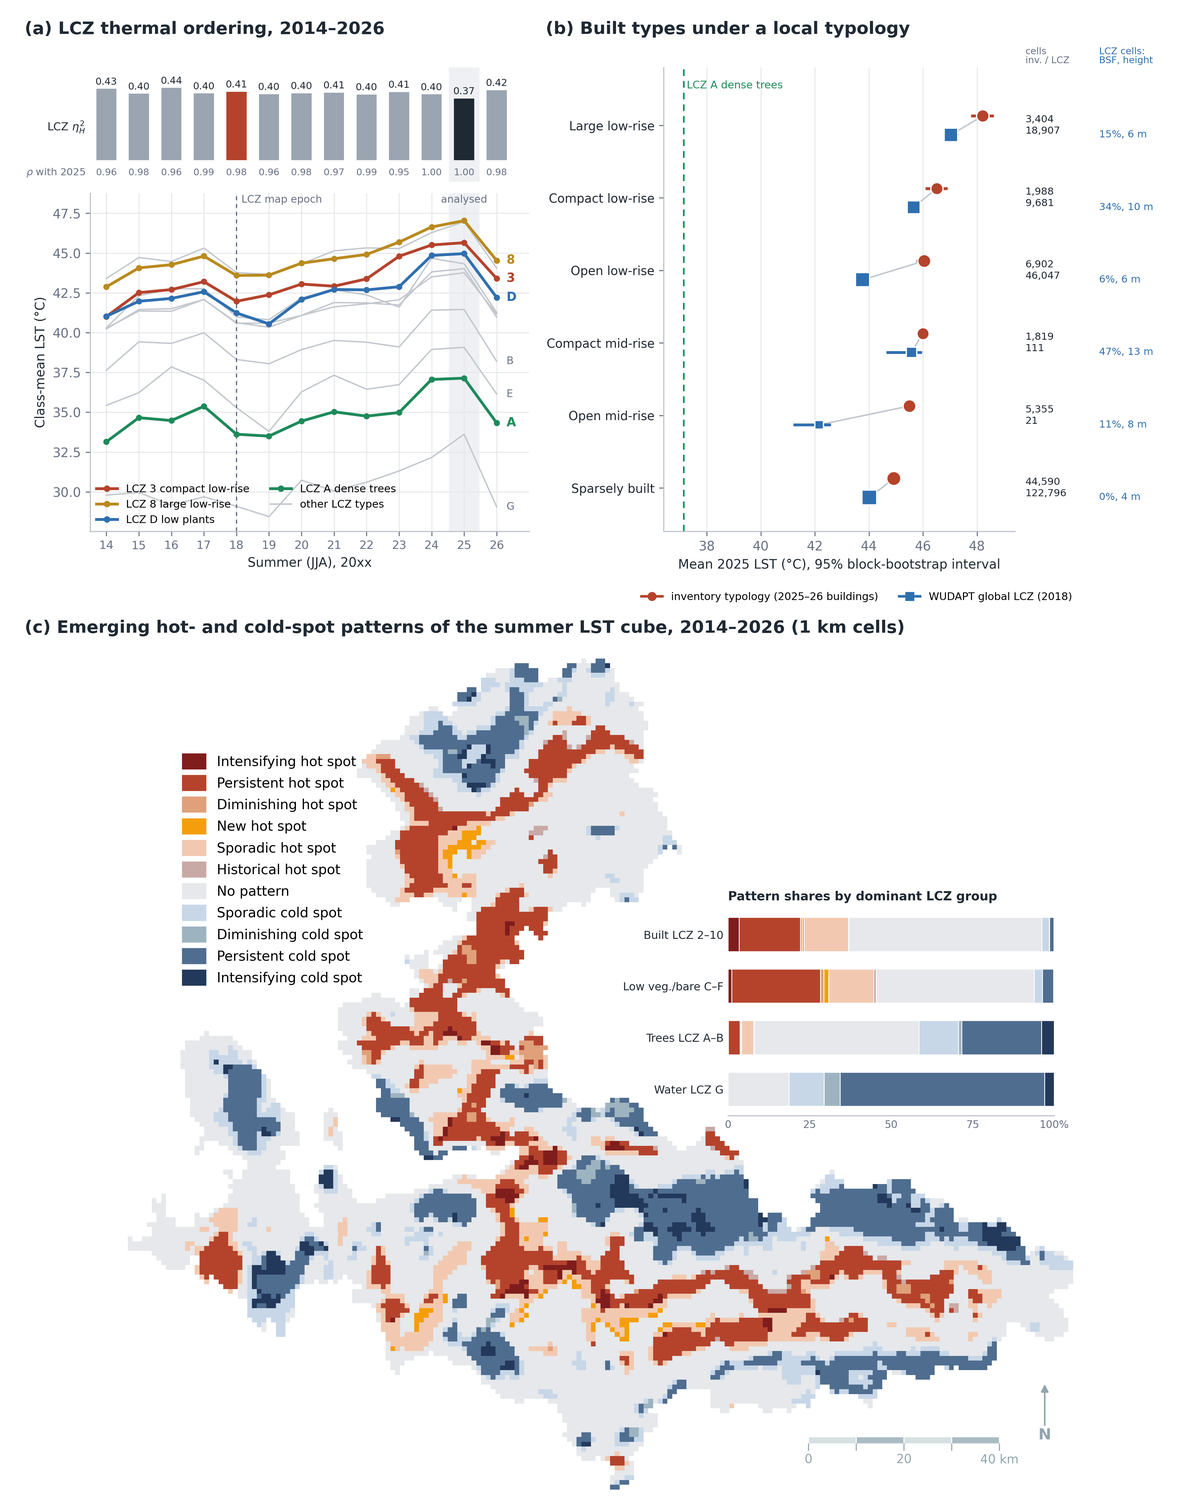
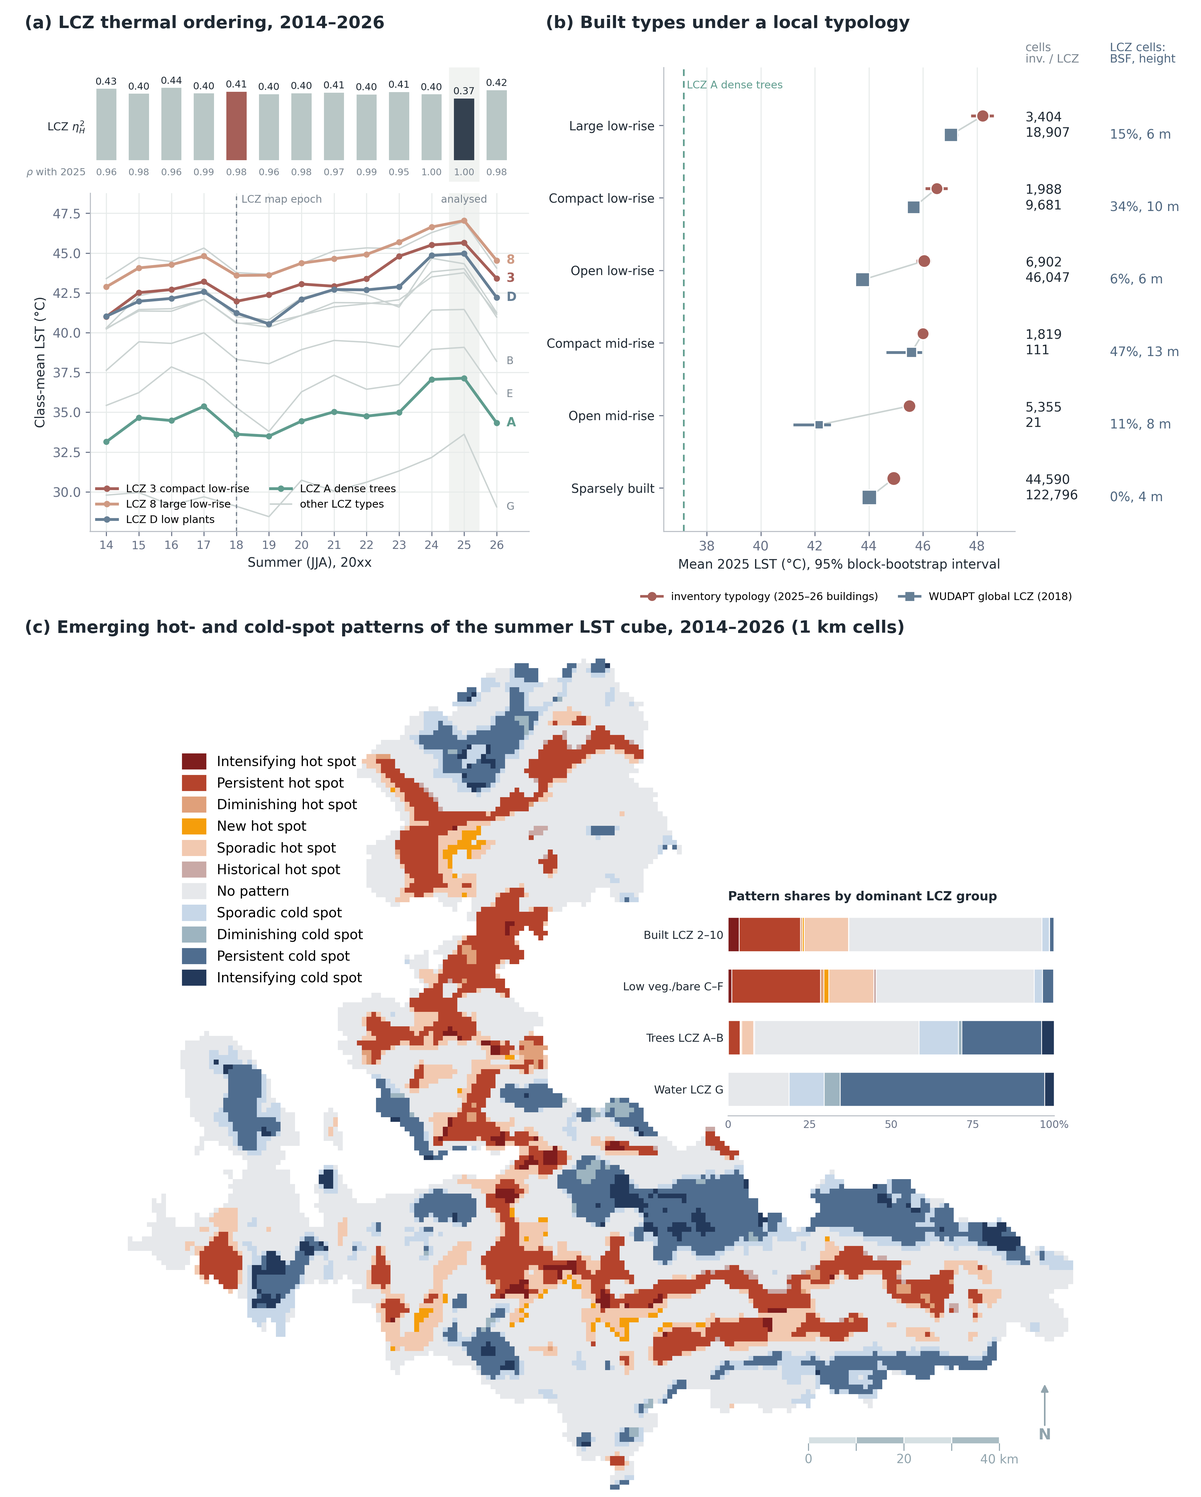
Figure 5 in the study palette; code comments describe the final analysis

diff --git a/r1/analysis/fig_r1_lcz_consistency.py b/r1/analysis/fig_r1_lcz_consistency.py
@@ -17,10 +17,12 @@ from matplotlib.colors import ListedColormap, BoundaryNorm
 sys.path.insert(0, str(Path(__file__).parent))
 from common import *  # noqa
 
-INK, MUTED, GRID = "#1F2933", "#667085", "#E6E8EB"
-C1, C2, C3, C4 = "#B5432C", "#2F6FB0", "#B98A1E", "#1E8A5A"
+INK, MUTED, GRID = "#1F2933", "#7A8590", "#E7EBEA"
+# study palette in (a) and (b); (c) keeps its own pattern colours
+C1, C2, C3, C4 = "#A65F58", "#667F95", "#CF9A83", "#5F9C8E"
+STEEL, LINE, HOLD = "#4F6780", "#CBD3D2", "#344150"
 plt.rcParams.update({"font.family": "DejaVu Sans", "font.size": 10, "axes.edgecolor": "#B9BEC5", "axes.labelcolor": INK,
-                     "xtick.color": MUTED, "ytick.color": MUTED, "axes.titlecolor": INK})
+                     "xtick.color": "#667085", "ytick.color": "#667085", "axes.titlecolor": INK})
 
 M = pd.read_csv(TABLES / "lcz_mean_lst_by_year.csv", index_col=0)
 M.columns = M.columns.astype(int)
@@ -50,10 +52,10 @@ axs, ax = fig.add_subplot(sub[0]), fig.add_subplot(sub[1])
 years = list(M.columns)
 for x0 in (2025,):
     for a in (axs, ax):
-        a.axvspan(x0 - 0.45, x0 + 0.45, color="#EEF0F3", zorder=0)
+        a.axvspan(x0 - 0.45, x0 + 0.45, color="#F1F3F1", zorder=0)
 hi = {3: ("LCZ 3 compact low-rise", C1), 8: ("LCZ 8 large low-rise", C3), 14: ("LCZ D low plants", C2), 11: ("LCZ A dense trees", C4)}
 for k in [6, 9, 12, 13, 15, 16, 17]:
-    ax.plot(years, M.loc[k], color="#C3C8CF", lw=1.1, zorder=1)
+    ax.plot(years, M.loc[k], color=LINE, lw=1.1, zorder=1)
     if k in (12, 15, 17):
         ax.text(years[-1] + 0.3, M.loc[k, years[-1]], LCZ_LABEL[k], color=MUTED, fontsize=8, va="center")
 for k, (lab, col) in hi.items():
@@ -65,13 +67,13 @@ ax.set_xlabel("Summer (JJA), 20xx"); ax.set_ylabel("Class-mean LST (\u00b0C)")
 ax.set_xlim(2013.5, 2027.0)
 clean(ax)
 h = [plt.Line2D([], [], color=c, lw=2.2, marker="o", ms=4, label=l) for l, c in hi.values()]
-h.append(plt.Line2D([], [], color="#C3C8CF", lw=1.2, label="other LCZ types"))
+h.append(plt.Line2D([], [], color=LINE, lw=1.2, label="other LCZ types"))
 ax.legend(handles=h, loc="lower left", fontsize=8.2, frameon=False, ncol=2, borderaxespad=0.2)
 yl = ax.get_ylim(); ax.set_ylim(yl[0], yl[1] + 0.8)
 ax.text(2018.15, yl[1] + 0.7, "LCZ map epoch", color=MUTED, fontsize=8, va="top")
 ax.text(2025, yl[1] + 0.7, "analysed", color=MUTED, fontsize=8, va="top", ha="center")
 # strip: eta^2 bars, rho as text
-cols = [C1 if y == 2018 else (INK if y == 2025 else "#9AA5B1") for y in E.year]
+cols = [C1 if y == 2018 else (HOLD if y == 2025 else "#B9C7C6") for y in E.year]
 axs.bar(E.year, E.eta2, color=cols, width=0.62, zorder=2)
 for y, e, r in zip(E.year, E.eta2, E.rho_2025_types):
     axs.text(y, e + 0.012, f"{e:.2f}", ha="center", va="bottom", fontsize=7.6, color=INK)
@@ -102,18 +104,18 @@ def msize(n):
 for i, k in enumerate(order):
     y = len(order) - 1 - i
     r, u = T3.loc[k], U.loc[k]
-    ax.plot([r["mean"], u["mean"]], [y + 0.13, y - 0.13], color="#C3C8CF", lw=1.2, zorder=1)
+    ax.plot([r["mean"], u["mean"]], [y + 0.13, y - 0.13], color=LINE, lw=1.2, zorder=1)
     ax.plot([r.ci_lo, r.ci_hi], [y + 0.13] * 2, color=C1, lw=2.2, solid_capstyle="butt", zorder=2)
     ax.scatter([r["mean"]], [y + 0.13], s=msize(r.n), color=C1, edgecolor="white", lw=1.0, zorder=3)
     ax.plot([u.ci_lo, u.ci_hi], [y - 0.13] * 2, color=C2, lw=2.2, solid_capstyle="butt", zorder=2)
     ax.scatter([u["mean"]], [y - 0.13], s=msize(u.n), color=C2, marker="s", edgecolor="white", lw=1.0, zorder=3)
     # right-hand columns: cell counts and the inventory morphology of the WUDAPT class
     tr = ax.get_yaxis_transform()
-    ax.text(1.03, y, f"{int(r.n):,}\n{int(u.n):,}", transform=tr, ha="left", va="center", fontsize=7.8, color=INK, linespacing=1.25)
+    ax.text(1.03, y, f"{int(r.n):,}\n{int(u.n):,}", transform=tr, ha="left", va="center", fontsize=10, color=INK, linespacing=1.25)
     mo = T1.loc[k]
-    ax.text(1.24, y - 0.13, f"{100 * mo.bsf3_med:.0f}%, {mo.h3_med:.0f} m", transform=tr, ha="left", va="center", fontsize=7.8, color=C2)
-ax.text(1.03, 1.005, "cells\ninv. / LCZ", transform=ax.transAxes, ha="left", va="bottom", fontsize=7.4, color=MUTED, linespacing=1.0)
-ax.text(1.24, 1.005, "LCZ cells:\nBSF, height", transform=ax.transAxes, ha="left", va="bottom", fontsize=7.4, color=C2, linespacing=1.0)
+    ax.text(1.27, y - 0.13, f"{100 * mo.bsf3_med:.0f}%, {mo.h3_med:.0f} m", transform=tr, ha="left", va="center", fontsize=10, color=STEEL)
+ax.text(1.03, 1.005, "cells\ninv. / LCZ", transform=ax.transAxes, ha="left", va="bottom", fontsize=9, color=MUTED, linespacing=1.05)
+ax.text(1.27, 1.005, "LCZ cells:\nBSF, height", transform=ax.transAxes, ha="left", va="bottom", fontsize=9, color=STEEL, linespacing=1.05)
 ax.set_yticks(range(len(order))); ax.set_yticklabels([names[k] for k in order[::-1]], fontsize=9.5, color=INK)
 ax.set_ylim(-0.6, len(order) - 0.2)
 ax.set_xlim(36.4, 49.4)

diff --git a/r1/analysis/r2_10_table_s13.py b/r1/analysis/r2_10_table_s13.py
@@ -1,5 +1,5 @@
-"""Supplementary Table S13: assembly of the province-wide grid (v2): source of each layer and its agreement with the
-earlier processing of the data stack (same-source layers on the cells the earlier grid covered; earlier 2025 export)."""
+"""Supplementary Table S13: assembly of the province-wide grid: source of each layer and its agreement check
+(same-source layers against the aligned data stack on shared cells; 2025 layers against the alternative layers)."""
 import sys
 from pathlib import Path
 import pandas as pd
@@ -20,27 +20,26 @@ NP = f"{len(load_grid(valid_only=False)):,}"
 rows = []
 for layer, name in [("lcz", "LCZ class"), ("lcz_probability", "LCZ probability"), ("corine_2018", "CORINE 2018"), ("glc_fcs_2022", "GLC\\_FCS30D 2022")]:
     cells = f"{int(_d.filled):,}" if layer.startswith("lcz") else NG  # 49 shoreline cells lie outside the LCZ product
-    rows.append(f"{name} & same Earth Engine asset & identical on {100 * get(layer, 'identical share').value:.1f}\\% of covered cells & {cells} \\\\")
-rows.append(f"SRTM elevation & same source, 100~m sample & $r={get('srtm_elevation_m', 'pearson r').value:.4f}$ & {NG} \\\\")
-rows.append(f"Slope, aspect (sine, cosine) & finite differences on the completed DEM & $r={get('srtm_slope_deg', 'pearson r').value:.3f}$, "
-            f"${get('srtm_aspect_sin', 'pearson r').value:.3f}$, ${get('srtm_aspect_cos', 'pearson r').value:.3f}$ & {NP} \\\\")
+    rows.append(f"{name} & same Earth Engine asset & identical to the stack on {100 * get(layer, 'identical share').value:.1f}\\% of shared cells & {cells} \\\\")
+rows.append(f"SRTM elevation & same source, 100~m sample & $r={get('srtm_elevation_m', 'pearson r').value:.4f}$ with the stack & {NG} \\\\")
+rows.append(f"Slope, aspect (sine, cosine) & finite differences on the extended DEM & -- & {NP} \\\\")
 for k, name in [("lst", "LST 2025"), ("albedo", "Albedo 2025"), ("ndvi", "NDVI 2025"), ("ndbi", "NDBI 2025"), ("evi", "EVI 2025")]:
-    rows.append(f"{name} & documented Landsat~8/9 composite & $r={V[f'prev_r_{k}']}$ with the earlier export & {NP} \\\\")
+    rows.append(f"{name} & documented Landsat~8/9 composite & $r={V[f'prev_r_{k}']}$ with the alternative layers & {NP} \\\\")
 rows.append(f"LST anomaly, UTFVI & derived from LST & -- & {NP} \\\\")
 s = r"""\begin{table}[H]
-\caption{Assembly of the province-wide grid: source of each layer and agreement with the earlier processing of the data stack, which did not cover \var{n_gapfilled} cells (\var{gapfill_share}\% of the province).}
+\caption{Assembly of the province-wide grid: source of each layer and agreement check.}
 \label{stab:gapfill}
 \scriptsize
 \setlength{\tabcolsep}{3pt}
 \begin{tabularx}{\textwidth}{p{2.6cm}p{4.4cm}Xr}
 \toprule
-\textbf{Layer} & \textbf{Source} & \textbf{Agreement with the earlier processing} & \textbf{Cells} \\
+\textbf{Layer} & \textbf{Source} & \textbf{Agreement check} & \textbf{Cells} \\
 \midrule
 """ + "\n".join(rows) + r"""
 \bottomrule
 \end{tabularx}
 \begin{tablenotes}
-\item Cells: for the same-source layers, the cells the earlier grid did not cover; for the derived and 2025 layers, all province cells. Agreement is computed on the cells both versions cover. Slope and aspect differ from the earlier derivation only at the \var{slope_changed_pct}\% of cells next to the province edge or the uncovered patches, where that derivation had filled missing neighbours with the province median elevation. The earlier 2025 export and the reasons it is not used are described in Supplementary Note~\ref{snote:grid}.
+\item Stack: the aligned data stack. Cells: for the same-source layers, the cells the stack does not cover; for the derived and 2025 layers, all province cells. Agreement is computed on the cells both sources cover. The alternative 2025 layers are described in Supplementary Note~\ref{snote:grid}.
 \end{tablenotes}
 \end{table}
 """

diff --git a/r1/analysis/r2_13_review_values.py b/r1/analysis/r2_13_review_values.py
@@ -1,4 +1,4 @@
-"""Values requested by the internal five-reviewer stress test (2026-10-28).
+"""Supplementary values quoted in the text and tables.
 
 - grid accounting: province cells, cells with an LCZ class, modelling cells (Table 4 vs Table 5 n)
 - MGWR sample share of the modelling grid
@@ -99,7 +99,7 @@ print(v2)
 v.update(v2)
 write_values("r2_13_review_values", v)
 
-# round-2 requests: separate child and elderly tests, unlisted residents, letter notation, joined-vs-model cells
+# separate child and elderly tests, unlisted residents, letter notation, joined-vs-model cells
 LETTER = {11: "A", 12: "B", 13: "C", 14: "D", 15: "E", 16: "F", 17: "G"}
 lc = lambda c: LETTER.get(int(c), str(int(c)))
 v["mw_ns_pair"] = "; ".join(f"LCZ {lc(a)} and {lc(b)}" for a, b in zip(ns.lcz_a, ns.lcz_b)) or "none"
@@ -124,7 +124,7 @@ v["n_joined_incomplete"] = int((inm & ~compl).sum())
 print({k: v[k] for k in ["mw_ns_pair", "bv_child_i", "bv_child_p", "bv_eld_i", "bv_eld_p", "rho_child_lst", "rho_eld_lst", "rho_child_eld", "pop_unlisted", "n_joined_incomplete"]})
 write_values("r2_13_review_values", v)
 
-# round-3 requests
+# further values
 from libpysal.weights import DistanceBand
 cent = np.column_stack([M2.geometry.centroid.x, M2.geometry.centroid.y])
 wd = DistanceBand(cent, threshold=5000, binary=True, silence_warnings=True); wd.transform = "r"
@@ -146,7 +146,7 @@ v["consensus_names"] = "; ".join(f"{_nm(n)} ({_nm(d)})" for n, d in zip(_c.mahal
 print({k: v[k] for k in ["bv_child_i_d5", "bv_child_p_d5", "bv_eld_i_d5", "bv_eld_p_d5", "lst_res_ranked", "lst_res_unranked", "n_res_unranked", "consensus_in_top80_noalb", "consensus_names"]})
 write_values("r2_13_review_values", v)
 
-# round-3 requests (2): residential-support group tests, FDR-controlled local counts, group-weighted exposure,
+# residential-support group tests, FDR-controlled local counts, group-weighted exposure,
 # built-area-weighted index sensitivity, units resting on few residential cells
 from statsmodels.stats.multitest import multipletests
 for col, nm in [("child_0_14_share", "child"), ("elderly_65_plus_share", "eld")]:

diff --git a/r1/analysis/r1_08_priority_alternatives.py b/r1/analysis/r1_08_priority_alternatives.py
@@ -1,9 +1,9 @@
-"""Mahalle priority index (R1-6, R2-5): revised morphology term, coverage, and dependence on construction.
+"""Mahalle priority index: revised morphology term, coverage, and dependence on construction.
 
 Revised baseline: M_m = mahalle mean of C_i = sum_k beta_k(i) x~_k(i) over every 100 m cell,
 with kernel-consistent MGWR coefficients (Eq. mahalle_morph). Weights 0.38/0.30/0.22/0.10.
 Alternatives compared with the baseline (Spearman rho; overlap of top 10 / 50 / 80):
-  r0_coef   coefficient-magnitude term of the submitted index (Eq. mahalle_morph_r0)
+  r0_coef   coefficient-magnitude term of the coefficient-only index (Eq. mahalle_morph_r0)
   equal     equal weights
   hev       equal hazard / sensitivity / exposure weights (T, M share the hazard third)
   entropy   entropy weights; pca  first-principal-component weights
@@ -39,7 +39,7 @@ def score(T, M, V, P, w=W0):
 pri = pd.read_csv(PRIORITY_CSV, encoding="utf-8-sig")
 pri = pri[pri.lst_mean.notna()].reset_index(drop=True)
 P_r0 = score(pri.lst_mean, pri.morph_pressure, pri.vulnerable_share, pri.pop_total)
-print("R0 reproduction max abs diff", np.nanmax(np.abs(P_r0 - pri.priority_score_0_100)))
+print("baseline reproduction max abs diff", np.nanmax(np.abs(P_r0 - pri.priority_score_0_100)))
 
 mah = gpd.read_file(MAHALLE).to_crs(CRS)
 g = load_grid()
@@ -91,7 +91,7 @@ pri["P0"] = P0
 base_rank = pd.Series(P0).rank(ascending=False, method="first").to_numpy()
 rho_C_T = stats.spearmanr(pri.C, pri.lst_mean).statistic
 rho_C_r0M = stats.spearmanr(pri.C, pri.morph_pressure).statistic
-print("rho(C, LST)", rho_C_T, "rho(C, R0 M)", rho_C_r0M)
+print("rho(C, LST)", rho_C_T, "rho(C, coefficient-only M)", rho_C_r0M)
 
 alts = {"r0_coef": P_r0}
 C4 = lambda M: np.column_stack([z(pri.lst_mean), z(M), z(pri.vulnerable_share), z(np.log1p(pri.pop_total))])

diff --git a/r1/analysis/r2_27_build_v2_grid.py b/r1/analysis/r2_27_build_v2_grid.py
@@ -1,7 +1,7 @@
-"""Analysis grid v2: the 2025 Landsat layers from the documented Earth Engine export (round-4 review decision).
+"""Analysis grid v2: the 2025 Landsat layers from the documented Earth Engine export.
 
-The analysed 2025 NDVI, NDBI and EVI of the earlier versions could not be regenerated from their stated recipe
-(r2_01-r2_04, r2_17, r2_25, r2_26). From this version on, LST, NDVI, NDBI, albedo and EVI of every province cell are
+The spectral indices of the alternative 2025 layers could not be traced to a recipe
+(r2_01-r2_04, r2_17, r2_25, r2_26). LST, NDVI, NDBI, albedo and EVI of every province cell are
 the documented June-August 2025 Landsat 8/9 Collection 2 Level-2 composite of r2_05 (scene cloud cover < 10%,
 QA_PIXEL bits 0-5 and QA_RADSAT mask, per-pixel mean; LST = ST_B10 in degrees Celsius), sampled on the analysis grid.
 Cells without a valid composite value (shoreline) take the value of the nearest valid cell.
@@ -10,7 +10,7 @@ with the same finite-difference operator on the 100 m SRTM DEM completed outside
 so that cells next to the province edge use real neighbours.
 
 Writes data/paper1_model_grid_100m_v2.csv (same columns as the complete grid, plus nearest_fill) and keeps the
-previously analysed layers in data/paper1_layers_2025_previous_export.csv for the sensitivity analysis.
+alternative layers in data/paper1_layers_2025_previous_export.csv for the sensitivity analysis.
 """
 import sys
 from pathlib import Path

diff --git a/r1/analysis/r1_06_mgwr_validation.py b/r1/analysis/r1_06_mgwr_validation.py
@@ -1,12 +1,12 @@
-"""Out-of-sample performance of the MGWR and the global benchmarks (R2-2, R1-1, R1-3).
+"""Out-of-sample performance of the MGWR and the global benchmarks.
 
-A. Spatial block cross-validation: 10 km blocks of the submitted sample are
+A. Spatial block cross-validation: 10 km blocks of the reported sample are
    split into five folds; MGWR is re-calibrated on four folds (bandwidths
    re-selected) and predicts the held-out fold with its kernel-consistent
    estimator. Two test sets per fold: the held-out sample cells, and every
    100 m cell of the full grid that lies in the held-out blocks.
 B. Random 5-fold cross-validation of the same sample (re-calibrated per fold).
-C. Hold-out of the full grid: the submitted model (orig) predicts all
+C. Hold-out of the full grid: the reported model (orig) predicts all
    1.18 M cells that were not in its sample, with the kernel-consistent
    estimator and with the published IDW atlas.
 Benchmarks fitted on exactly the same training cells: OLS with the three
@@ -112,7 +112,7 @@ for (scheme, setname, mname), lst in store.items():
 PO = pd.DataFrame(pool)
 print(PO.round(3).to_string())
 
-# C. full-grid hold-out with the submitted model
+# C. full-grid hold-out with the reported model
 fo = load_r0_fit()
 y = g_out[DEP].to_numpy(float)
 pm, B = predict(fo, g_out[["x", "y"]].to_numpy(float), g_out[PREDICTORS].to_numpy(float))

diff --git a/r1/analysis/common.py b/r1/analysis/common.py
@@ -22,13 +22,13 @@ for _p in (OUT, VALUES, TABLES, FIGS, CACHE):
     _p.mkdir(parents=True, exist_ok=True)
 
 GRID_CSV = DATA / "paper1_model_grid_100m_v2.csv"  # v2: 2025 Landsat layers from the documented export (r2_27)
-GRID_CSV_V1 = DATA / "paper1_model_grid_100m_complete.csv"  # v1: previously analysed export, completed grid
+GRID_CSV_V1 = DATA / "paper1_model_grid_100m_complete.csv"  # v1: alternative 2025 layers, completed grid
 GRID_CSV_R0 = DATA / "paper1_model_grid_100m_current.csv"
 MGWR_SAMPLE = DATA / "paper1_mgwr_sample_v2.gpkg"  # same 4,000 calibration cells, v2 layers and the v2 reported fit (r2_28)
 MGWR_SAMPLE_V1 = DATA / "mgwr_run" / "paper1_mgwr_sample_true.gpkg"
 IDW_GRID = DATA / "paper1_mgwr_coefficient_grid_idw_v2.gpkg"  # v2 atlas (r2_29)
 IDW_GRID_V1 = DATA / "mgwr_run" / "paper1_mgwr_coefficient_grid_idw.gpkg"
-CUBE_ANNUAL = DATA / "datacubes" / "paper1_landsat_lst_jja_cube_2014_2024.nc"  # stored R0 cube; analyses use load_summer_series()
+CUBE_ANNUAL = DATA / "datacubes" / "paper1_landsat_lst_jja_cube_2014_2024.nc"  # 2014-2024 cube; analyses use load_summer_series()
 CUBE_2025 = ROOT / "pipeline" / "data" / "03_processed" / "paper1" / "datacubes" / "paper1_thermal_covariate_cube_2025.nc"
 CUBE_2025_R0 = DATA / "datacubes" / "paper1_thermal_covariate_cube_2025.nc"
 

diff --git a/r1/analysis/r1_05_interpolation_sensitivity.py b/r1/analysis/r1_05_interpolation_sensitivity.py
@@ -1,8 +1,8 @@
-"""Sensitivity of the coefficient atlas to the interpolation scheme (R1-2).
+"""Sensitivity of the coefficient atlas to the interpolation scheme.
 
-Coefficients of the submitted MGWR (refit 'orig') are mapped to the 500 m atlas
+Coefficients of the reported MGWR (refit 'orig') are mapped to the 500 m atlas
 grid and to every 100 m cell with eight schemes:
-  IDW p=2 k=12 (R0 baseline); IDW p=1 k=12; IDW p=2 k=6; IDW p=2 k=24;
+  IDW p=2 k=12 (baseline); IDW p=1 k=12; IDW p=2 k=6; IDW p=2 k=24;
   nearest neighbour; linear (Delaunay); LCZ-stratified IDW (built cells from
   built sample points, natural from natural); and kernel-consistent direct
   estimation with the model's own per-covariate bandwidths (no interpolation).
@@ -111,7 +111,7 @@ print(LOO.round(3).to_string())
 T = T.merge(LOO, on="method", how="left")
 T.to_csv(TABLES / "atlas_interpolation_sensitivity.csv", index=False)
 
-# mahalle-level coefficient term (R0 definition) under each scheme at 100 m cells
+# mahalle-level coefficient term (coefficient-only definition) under each scheme at 100 m cells
 mah = gpd.read_file(MAHALLE).to_crs(CRS)
 pri = pd.read_csv(PRIORITY_CSV, encoding="utf-8-sig")
 pri = pri[pri.lst_mean.notna()]

diff --git a/r1/analysis/r2_29_finalize_v2_fit.py b/r1/analysis/r2_29_finalize_v2_fit.py
@@ -1,10 +1,10 @@
 """Reported MGWR on the v2 layers: sample columns, local R2 and the 500 m coefficient atlas.
 
 Input: outputs/cache/mgwr_orig.npz (r2_28 remote fit of the 4,000-cell calibration sample on the v2 layers).
-* data/paper1_mgwr_sample_v2.gpkg gains the columns of the earlier reported sample: mgwr_intercept, mgwr_coef_*,
-  mgwr_t_*, mgwr_local_r2, mgwr_cond, mgwr_residual_scaled, mgwr_residual_lst. Local R2 uses the method of the
-  earlier run (adaptive bisquare neighbourhood of k = median predictor bandwidth, weighted 1 - RSS/TSS).
-* data/paper1_mgwr_coefficient_grid_idw_v2.gpkg: the same 500 m atlas points as before, inverse-distance
+* data/paper1_mgwr_sample_v2.gpkg gains the columns of the calibration sample: mgwr_intercept, mgwr_coef_*,
+  mgwr_t_*, mgwr_local_r2, mgwr_cond, mgwr_residual_scaled, mgwr_residual_lst. Local R2 uses the adaptive bisquare
+  neighbourhood of k = median predictor bandwidth, weighted 1 - RSS/TSS.
+* data/paper1_mgwr_coefficient_grid_idw_v2.gpkg: the 500 m atlas points, inverse-distance
   interpolated (12 neighbours, power 2) from the calibration cells; dominant driver = largest absolute coefficient.
 """
 import sys

diff --git a/r1/analysis/r2_30_previous_export_sensitivity.py b/r1/analysis/r2_30_previous_export_sensitivity.py
@@ -1,9 +1,8 @@
-"""Sensitivity of the results to the source of the 2025 spectral layers (round-4 decision, v2).
+"""Sensitivity of the results to the source of the 2025 spectral layers.
 
-The analysis now uses the documented Earth Engine composite (r2_27). The previously analysed export, whose NDVI, NDBI
-and EVI could not be regenerated from their recipe, is kept as a sensitivity case. This script collects the
-corresponding results of the earlier, fully computed version of the analysis (outputs/v1_values, v1_tables: same
-code, same settings, previous layers) and compares them with the current ones: layer agreement, LCZ effect size,
+The analysis uses the documented Earth Engine composite (r2_27). The alternative 2025 layers, whose NDVI, NDBI
+and EVI could not be traced to a recipe, are kept as a sensitivity case. This script collects the results computed
+with them (outputs/v1_values, v1_tables: same code, same settings) and compares them with the reported ones: layer agreement, LCZ effect size,
 OLS fit and standardised surface coefficients, MGWR bandwidths and fit, the mahalle surface heat term and the index.
 """
 import sys

diff --git a/r1/analysis/mgwr_core.py b/r1/analysis/mgwr_core.py
@@ -1,6 +1,6 @@
 """MGWR fitting and kernel-consistent local estimation used by the R1 analyses.
 
-`fit_mgwr` reproduces the settings of the submitted model (adaptive bisquare,
+`fit_mgwr` uses the settings of the reported model (adaptive bisquare,
 AICc golden-section back-fitting, standardised y and X, tol 1e-4).
 
 `local_betas` estimates MGWR coefficients at arbitrary locations from a fitted
@@ -116,7 +116,7 @@ def idw(src_xy, src_val, dst_xy, k=12, power=2.0, min_d=1.0):
 
 def load_r0_fit():
     """The reported MGWR as a fit dict. v2 (documented 2025 layers): the r2_28 fit of the calibration sample,
-    outputs/cache/mgwr_orig.npz. The v1 branch below rebuilt the earlier reported fit from its stored sample."""
+    outputs/cache/mgwr_orig.npz. The v1 branch below rebuilds the fit on the alternative layers from its stored sample."""
     from common import CACHE
     _v2 = CACHE / "mgwr_orig.npz"
     if _v2.exists():

diff --git a/r1/analysis/r1_07_model_comparison.py b/r1/analysis/r1_07_model_comparison.py
@@ -1,10 +1,10 @@
-"""Model comparison on a common footing and the residual definitions behind Moran's I (R1-3, R2-1).
+"""Model comparison on a common footing and the residual definitions behind Moran's I.
 
-On the submitted 4,000-cell sample (standardised LST and predictors, KNN k=8
+On the reported 4,000-cell sample (standardised LST and predictors, KNN k=8
 row-standardised W, the matrix used for both estimation and diagnostics):
   * OLS, ML spatial error (SEM) and ML spatial lag (SAR) refit with spreg
   * Moran's I of each residual definition:
-      SEM  u = y - X b (trend residual, contains lambda W u)   [R0 Table 7]
+      SEM  u = y - X b (trend residual, contains lambda W u)
            e = u - lambda W u (spatially filtered innovation)
       SAR  e = y - rho W y - X b (innovation)
            u = y - (I - rho W)^-1 X b (reduced-form prediction residual)
